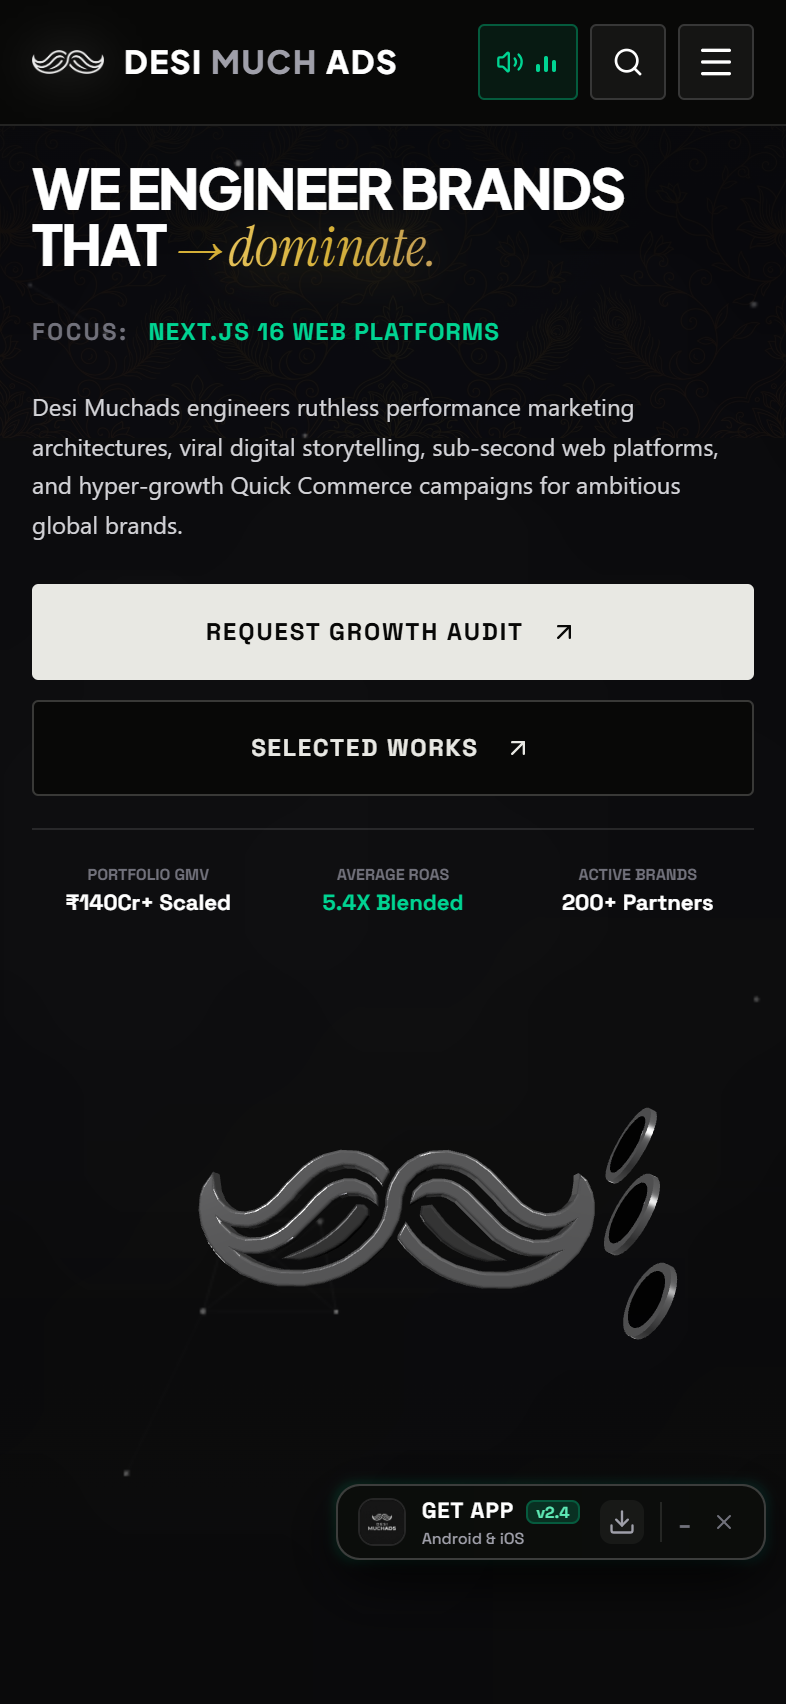
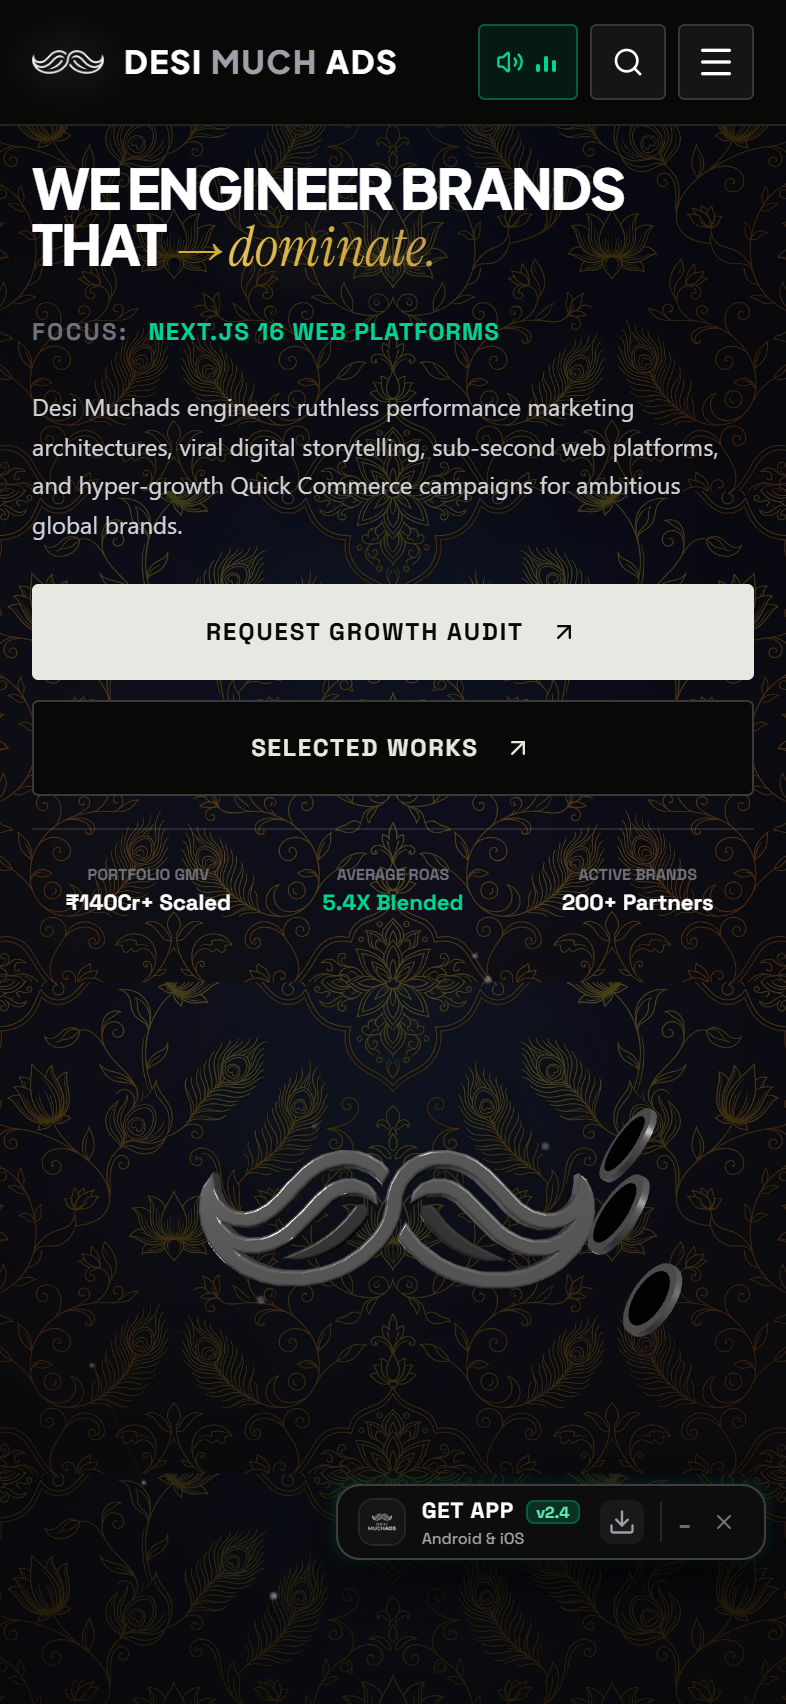
feat: add core layout, components, and verification scripts for agency portal

diff --git a/src/components/common/IndianArtBackgroundOverlay.tsx b/src/components/common/IndianArtBackgroundOverlay.tsx
@@ -6,34 +6,54 @@ import { ConstellationCanvas } from "@/components/hero/ConstellationCanvas";
 /**
  * Authentic Royal Indian Cultural Artistry & Architecture Background
  * Renders globally across all sections and pages:
- * 1. Authentic Pichwai & Kalamkari Palace Royal Artistry (/art/indian-art-bg-royal.jpg)
- * 2. Interactive Micro-Star Constellation Canvas
- * 3. Atmospheric Heritage Radiance Glows
+ * 1. Mobile View (< 768px):
+ *    - Seamless, high-visibility vertical pattern tiling (440px width)
+ *    - Elevated 24% opacity with rich gold contrast
+ *    - Displays full lotus motifs and peacock feathers across phone screens
+ * 2. Desktop View (>= 768px):
+ *    - Full panoramic high-fidelity cover with 14% opacity
+ * 3. Interactive Micro-Star Constellation Canvas
+ * 4. Atmospheric Heritage Radiance Glows
  */
 export function IndianArtBackgroundOverlay() {
   return (
     <div
       aria-hidden="true"
-      className="pointer-events-none fixed inset-0 z-0 h-full w-full max-w-full overflow-hidden select-none"
+      className="pointer-events-none fixed inset-0 z-0 h-full w-full max-w-full overflow-hidden select-none bg-[#080807]"
     >
-      {/* 1. Authentic Indian Cultural Pichwai & Kalamkari Artistry Drawing Watermark */}
-      <div className="absolute inset-0 overflow-hidden opacity-[0.085] mix-blend-screen">
+      {/* 1. Mobile Portrait Dedicated Background (Vibrant, Repeating, High Visibility) */}
+      <div
+        className="block sm:hidden absolute inset-0 opacity-[0.24] mix-blend-screen"
+        style={{
+          backgroundImage: "url('/art/indian-art-bg-royal.jpg')",
+          backgroundRepeat: "repeat-y",
+          backgroundPosition: "center top",
+          backgroundSize: "440px auto",
+          filter: "contrast(135%) brightness(115%)",
+        }}
+      />
+
+      {/* 2. Desktop Landscape Panoramic Background */}
+      <div className="hidden sm:block absolute inset-0 overflow-hidden opacity-[0.14] mix-blend-screen">
         {/* eslint-disable-next-line @next/next/no-img-element */}
         <img
           src="/art/indian-art-bg-royal.jpg"
           alt="Authentic Indian Cultural Heritage Artistry"
-          className="w-full h-full object-cover object-center filter contrast-125"
+          className="w-full h-full object-cover object-center filter contrast-125 brightness-105"
         />
-        <div className="absolute inset-0 bg-gradient-to-t from-[#080807] via-transparent to-[#080807]/80" />
+        <div className="absolute inset-0 bg-gradient-to-t from-[#080807]/60 via-transparent to-[#080807]/50" />
       </div>
 
-      {/* 2. Interactive Micro-Star Constellation Canvas */}
+      {/* 3. Subtle Mobile & Desktop Vignette Edge Shadow */}
+      <div className="absolute inset-0 bg-gradient-to-b from-[#080807]/40 via-transparent to-[#080807]/60 pointer-events-none" />
+
+      {/* 4. Interactive Micro-Star Constellation Canvas */}
       <ConstellationCanvas />
 
-      {/* 3. Atmospheric Heritage Radiance Halos */}
-      <div className="absolute top-1/4 -left-32 w-96 h-96 rounded-full bg-white/[0.025] blur-[160px] pointer-events-none" />
-      <div className="absolute bottom-1/4 right-0 w-96 h-96 rounded-full bg-white/[0.02] blur-[160px] pointer-events-none" />
-      <div className="absolute top-2/3 left-1/3 w-[500px] h-[500px] rounded-full bg-[#D4AF37]/[0.015] blur-[180px] pointer-events-none" />
+      {/* 5. Atmospheric Heritage Radiance Halos */}
+      <div className="absolute top-1/4 -left-32 w-80 sm:w-96 h-80 sm:h-96 rounded-full bg-white/[0.035] blur-[140px] pointer-events-none" />
+      <div className="absolute bottom-1/4 right-0 w-80 sm:w-96 h-80 sm:h-96 rounded-full bg-white/[0.03] blur-[140px] pointer-events-none" />
+      <div className="absolute top-2/3 left-1/3 w-80 sm:w-[500px] h-80 sm:h-[500px] rounded-full bg-[#D4AF37]/[0.025] blur-[160px] pointer-events-none" />
     </div>
   );
 }

diff --git a/src/components/hero/ConstellationCanvas.tsx b/src/components/hero/ConstellationCanvas.tsx
@@ -42,8 +42,23 @@ export function ConstellationCanvas() {
       mouse.y = -1000;
     };
 
+    // Mobile touch interaction
+    const handleTouchMove = (e: TouchEvent) => {
+      if (e.touches && e.touches.length > 0) {
+        const rect = canvas.getBoundingClientRect();
+        mouse.x = e.touches[0].clientX - rect.left;
+        mouse.y = e.touches[0].clientY - rect.top;
+      }
+    };
+    const handleTouchEnd = () => {
+      mouse.x = -1000;
+      mouse.y = -1000;
+    };
+
     window.addEventListener("mousemove", handleMouseMove, { passive: true });
     document.addEventListener("mouseleave", handleMouseLeave);
+    window.addEventListener("touchmove", handleTouchMove, { passive: true });
+    window.addEventListener("touchend", handleTouchEnd, { passive: true });
 
     // Initialize 32 delicate micro-stars
     const stars: Star[] = [];
@@ -135,6 +150,8 @@ export function ConstellationCanvas() {
       window.removeEventListener("resize", handleResize);
       window.removeEventListener("mousemove", handleMouseMove);
       document.removeEventListener("mouseleave", handleMouseLeave);
+      window.removeEventListener("touchmove", handleTouchMove);
+      window.removeEventListener("touchend", handleTouchEnd);
     };
   }, []);
 

diff --git a/src/app/layout.tsx b/src/app/layout.tsx
@@ -105,7 +105,7 @@ export const metadata: Metadata = {
     siteName: "DESI MUCHADS Digital Agency",
     images: [
       {
-        url: "/desi-muchads-original-logo.png",
+        url: "https://desimuchads.agency/og-image.png",
         width: 1024,
         height: 1024,
         alt: "DESI MUCHADS Official Brand Logo",
@@ -119,7 +119,7 @@ export const metadata: Metadata = {
     title: "DESI MUCHADS ✦ High-ROAS Performance Marketing & Neo-Desi Creative Agency",
     description:
       "Unapologetic Desi Roots. Ruthless Global ROI. High-converting marketing architectures, viral reels, sub-second web platforms, and e-commerce scaling.",
-    images: ["/desi-muchads-original-logo.png"],
+    images: ["https://desimuchads.agency/og-image.png"],
     creator: "@desimuchads",
     site: "@desimuchads",
   },

diff --git a/src/components/common/WinterExpansionDiscountModal.tsx b/src/components/common/WinterExpansionDiscountModal.tsx
@@ -102,14 +102,23 @@ export function WinterExpansionDiscountModal({
     }
   }, []);
 
-  // Listen for custom trigger event
+  // Listen for custom trigger event & Escape key
   useEffect(() => {
     const handleOpen = () => {
       sound.playChime();
       setIsOpen(true);
     };
+    const handleKeyDown = (e: KeyboardEvent) => {
+      if (e.key === "Escape") {
+        setIsOpen(false);
+      }
+    };
     window.addEventListener("open-winter-sale", handleOpen);
-    return () => window.removeEventListener("open-winter-sale", handleOpen);
+    window.addEventListener("keydown", handleKeyDown);
+    return () => {
+      window.removeEventListener("open-winter-sale", handleOpen);
+      window.removeEventListener("keydown", handleKeyDown);
+    };
   }, []);
 
   // Logo tap trigger

diff --git a/src/components/navigation/Navbar.tsx b/src/components/navigation/Navbar.tsx
@@ -213,10 +213,9 @@ export function Navbar({ onOpenKundli }: NavbarProps) {
             />
           </div>
           <div className="flex flex-col text-left justify-center shrink-0">
-            <div className="font-display font-black text-base sm:text-lg tracking-wider text-white uppercase flex items-center gap-1 leading-none">
+            <div className="font-display font-black text-base sm:text-lg tracking-wider text-white uppercase flex items-center gap-1.5 leading-none">
               <span>DESI</span>
-              <span className="text-zinc-400">MUCH</span>
-              <span>ADS</span>
+              <span className="text-zinc-300">MUCHADS</span>
             </div>
           </div>
         </Link>

diff --git a/src/components/pricing/PricingSection.tsx b/src/components/pricing/PricingSection.tsx
@@ -228,7 +228,7 @@ export function PricingSection({ onOpenKundli }: PricingSectionProps) {
   };
 
   return (
-    <section id="pricing" className="relative py-28 sm:py-36 bg-[#09090b] text-white overflow-hidden border-t border-white/10">
+    <section id="pricing" className="relative py-28 sm:py-36 bg-transparent text-white overflow-hidden border-t border-white/10">
       {/* Background ambient lighting */}
       <div className="absolute top-1/4 -right-40 w-[600px] h-[600px] rounded-full bg-white/[0.02] blur-[160px] pointer-events-none" />
       <div className="absolute bottom-1/4 -left-40 w-[600px] h-[600px] rounded-full bg-white/[0.02] blur-[160px] pointer-events-none" />

diff --git a/src/components/portal/ClientPortalPreview.tsx b/src/components/portal/ClientPortalPreview.tsx
@@ -194,7 +194,7 @@ export function ClientPortalPreview() {
   };
 
   return (
-    <section id="portal" className="relative py-28 sm:py-36 bg-[#09090b] text-white overflow-hidden border-t border-white/10">
+    <section id="portal" className="relative py-28 sm:py-36 bg-transparent text-white overflow-hidden border-t border-white/10">
       {/* Background ambient lighting */}
       <div className="absolute top-1/4 left-1/4 w-[600px] h-[600px] rounded-full bg-white/[0.03] blur-[160px] pointer-events-none" />
 

diff --git a/scratch/capture_verification.py b/scratch/capture_verification.py
@@ -1,0 +1,49 @@
+import subprocess, time, asyncio, json, base64, urllib.request, websockets
+
+chrome_path = r'C:\Program Files\Google\Chrome\Application\chrome.exe'
+proc = subprocess.Popen([chrome_path, '--headless=new', '--remote-debugging-port=9229', '--window-size=1280,900', 'about:blank'])
+time.sleep(2)
+
+async def capture():
+    try:
+        res = urllib.request.urlopen('http://127.0.0.1:9229/json')
+        tabs = json.loads(res.read())
+        ws_url = tabs[0]['webSocketDebuggerUrl']
+        async with websockets.connect(ws_url, max_size=25*1024*1024) as ws:
+            # Desktop
+            await ws.send(json.dumps({'id': 1, 'method': 'Page.navigate', 'params': {'url': 'http://localhost:3000'}}))
+            await ws.recv()
+            await asyncio.sleep(4.5)
+            
+            js_dismiss = 'sessionStorage.setItem("dm_winter_discount_seen", "true"); document.querySelectorAll("button").forEach(b => { if (b.getAttribute("aria-label") && b.getAttribute("aria-label").includes("Close")) b.click(); });'
+            await ws.send(json.dumps({'id': 2, 'method': 'Runtime.evaluate', 'params': {'expression': js_dismiss}}))
+            await ws.recv()
+            await asyncio.sleep(0.5)
+            
+            await ws.send(json.dumps({'id': 3, 'method': 'Page.captureScreenshot'}))
+            resp = json.loads(await ws.recv())
+            with open('scratch/verify_latest_desktop.png', 'wb') as f:
+                f.write(base64.b64decode(resp['result']['data']))
+                
+            # Mobile iPhone
+            await ws.send(json.dumps({
+                'id': 4,
+                'method': 'Emulation.setDeviceMetricsOverride',
+                'params': {'width': 393, 'height': 852, 'deviceScaleFactor': 2, 'mobile': True}
+            }))
+            await ws.recv()
+            await ws.send(json.dumps({'id': 5, 'method': 'Page.navigate', 'params': {'url': 'http://localhost:3000'}}))
+            await ws.recv()
+            await asyncio.sleep(4.5)
+            await ws.send(json.dumps({'id': 6, 'method': 'Runtime.evaluate', 'params': {'expression': js_dismiss}}))
+            await ws.recv()
+            await asyncio.sleep(0.5)
+            await ws.send(json.dumps({'id': 7, 'method': 'Page.captureScreenshot'}))
+            resp = json.loads(await ws.recv())
+            with open('scratch/verify_latest_mobile.png', 'wb') as f:
+                f.write(base64.b64decode(resp['result']['data']))
+    finally:
+        proc.terminate()
+
+asyncio.run(capture())
+print('Screenshots captured successfully!')

diff --git a/scratch/test_scroll_chrome.py b/scratch/test_scroll_chrome.py
@@ -1,0 +1,43 @@
+import subprocess, time, asyncio, json, base64, urllib.request, websockets
+
+chrome_path = r'C:\Program Files\Google\Chrome\Application\chrome.exe'
+proc = subprocess.Popen([chrome_path, '--headless=new', '--remote-debugging-port=9232', '--window-size=393,852', 'about:blank'])
+time.sleep(2)
+
+async def capture_scrolled():
+    res = urllib.request.urlopen('http://127.0.0.1:9232/json')
+    tabs = json.loads(res.read())
+    ws_url = tabs[0]['webSocketDebuggerUrl']
+    async with websockets.connect(ws_url, max_size=25*1024*1024) as ws:
+        await ws.send(json.dumps({
+            'id': 1,
+            'method': 'Emulation.setDeviceMetricsOverride',
+            'params': {'width': 393, 'height': 852, 'deviceScaleFactor': 2, 'mobile': True}
+        }))
+        await ws.recv()
+        await ws.send(json.dumps({'id': 2, 'method': 'Page.navigate', 'params': {'url': 'http://localhost:3000'}}))
+        await ws.recv()
+        await asyncio.sleep(4.5)
+        
+        # Click close modal button or press Escape
+        await ws.send(json.dumps({'id': 3, 'method': 'Runtime.evaluate', 'params': {'expression': '''
+            sessionStorage.setItem("dm_winter_discount_seen", "true");
+            const btn = document.querySelector('button[aria-label="Close modal"]');
+            if (btn) btn.click();
+        '''}}))
+        await ws.recv()
+        await asyncio.sleep(0.5)
+        
+        # Scroll down to services
+        await ws.send(json.dumps({'id': 4, 'method': 'Runtime.evaluate', 'params': {'expression': 'window.scrollTo(0, 950);'}}))
+        await ws.recv()
+        await asyncio.sleep(1.0)
+        
+        await ws.send(json.dumps({'id': 5, 'method': 'Page.captureScreenshot'}))
+        resp = json.loads(await ws.recv())
+        with open('scratch/verify_mobile_scrolled_services.png', 'wb') as f:
+            f.write(base64.b64decode(resp['result']['data']))
+
+asyncio.run(capture_scrolled())
+proc.terminate()
+print('Services mobile screenshot captured!')
